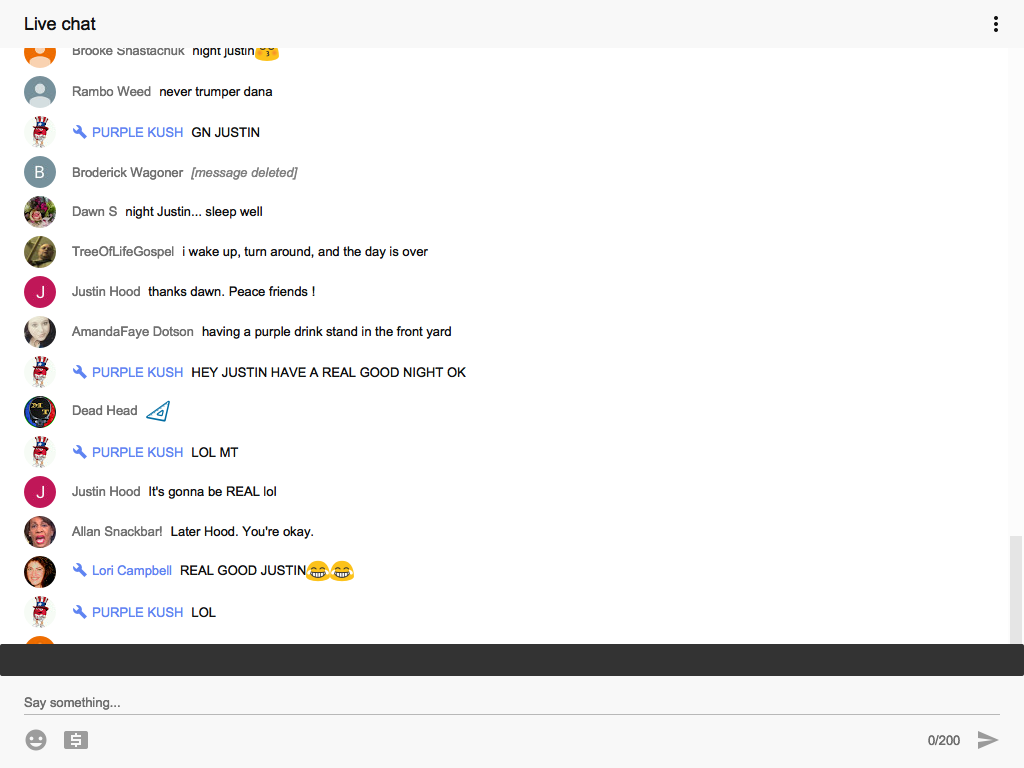
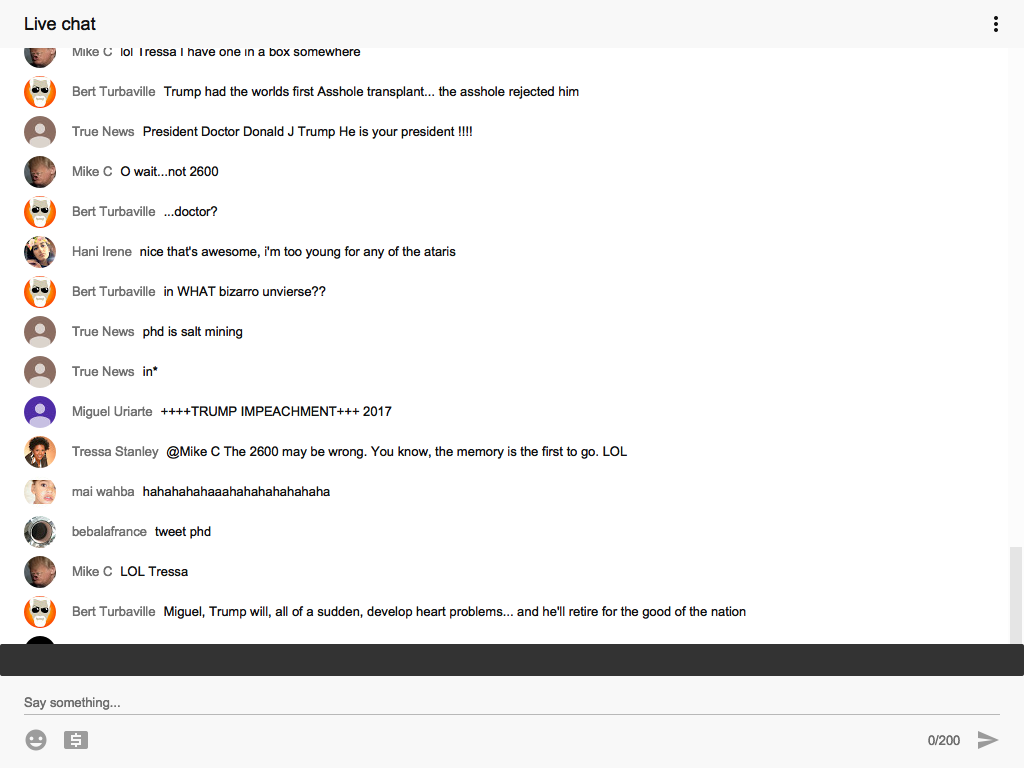
writing to file

Changed region(s): [[0.0, 0.0625, 0.7188, 0.8438]]

diff --git a/src/scraper.js b/src/scraper.js
@@ -1,4 +1,5 @@
 var colorizer = require('colorizer').create('Colorizer');
+var fs = require('fs')
 
 var casper = require("casper").create({
   viewportSize: {
@@ -7,7 +8,7 @@ var casper = require("casper").create({
   }
 });
 
-url = 'https://www.youtube.com/live_chat?v=7azsl4iguoU&is_popout=1'
+url = 'https://www.youtube.com/live_chat?v=qUaPaogT1Q8&is_popout=1'
 ua = 'Mozilla/5.0 (Windows NT 6.1; Win64; x64; rv:47.0) Gecko/20100101 Firefox/47.0'
 
 casper.start()
@@ -17,8 +18,8 @@ casper.thenOpen(url, function () {
   this.echo("Waiting 10s", 'INFO')
   this.wait(10000, function () {
     casper.capture('screen-capture.png')
-    this.echo('...waited')
-    this.echo('Captured Screen.')
+    this.echo('...waited', 'COMMENT')
+    this.echo('Captured Screen.', 'COMMENT')
   })
 })
 
@@ -32,6 +33,7 @@ var currentMessage = '';
       var nodes = document.querySelectorAll('yt-live-chat-text-message-renderer'),
           author = nodes[nodes.length - 1].querySelector('#author-name').textContent,
           message = nodes[nodes.length - 1].querySelector('#message').textContent;
+      // ytd-menu-navigation-item-renderer
       return {
         author: author,
         message: message
@@ -40,12 +42,15 @@ var currentMessage = '';
   });
 
   casper.then(function () {
+    this.echo('Running', 'INFO')
     if (post === null) {
       this.echo("Error with message", 'WARNING')
       return
     } else if (currentMessage !== post.message) {
       currentMessage = post.message;
-      this.echo(colorizer.colorize(post.author, 'WARNING') + ' ' + colorizer.colorize(post.message, 'COMMENT'))
+      this.echo(colorizer.colorize(post.author, 'WARNING') + ' | ' + colorizer.colorize(post.message, 'COMMENT'))
+      formattedMsg = (post.author + ' - ' + post.message + ',\n')
+      fs.write('log.txt', formattedMsg, 'a')
     } 
   });
 
